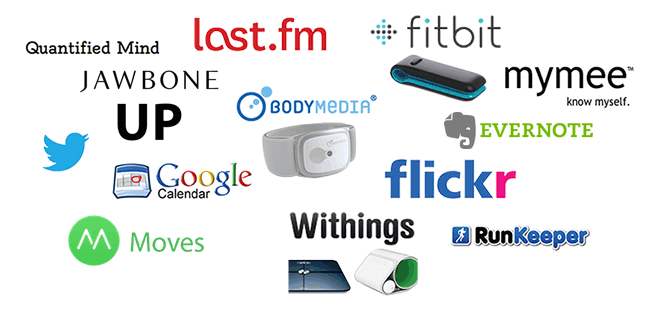
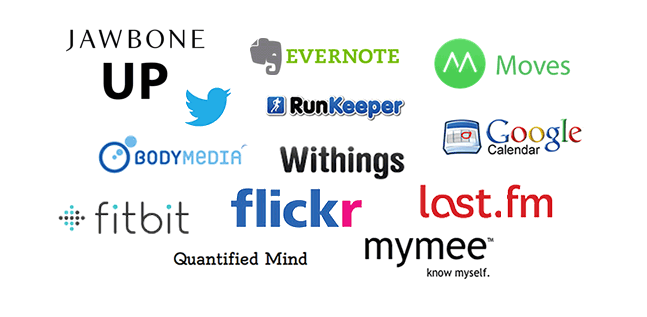
less white space, invert connector drawer on small height screens, new connector cloud image

Changed region(s): [[0.0309, 0.0284, 0.9892, 0.9369], [0.8655, 0.3123, 0.9892, 0.3407]]

diff --git a/fluxtream-web/src/main/webapp/css/index-2014.css b/fluxtream-web/src/main/webapp/css/index-2014.css
@@ -29,8 +29,6 @@ body, html {
   padding-right: 20px;
 }
 
-
-
 .logo {
   background: url("../images/logo.png") no-repeat center center;
   width: 250px;
@@ -45,79 +43,11 @@ body, html {
   text-decoration: underline;
 }
 
-/*
-.username_txt {
-  float: left;
-}
-
-.password_txt {
-  float: left;
-}
-
-.recover_email_txt {
-    float: left;
-}
-
-.recover_email_input {
-    float: left;
-}
-*/
-
-/*
-.username_input {
-  float: left;
-}
-
-.password_input {
-  float: left;
-}
-*/
-
 .forgotPassword {
   font-size: 12px;
   margin-left: 1em;
 /*   float: left; */
 }
-
-/*
-.login_btn {
-  float: left;
-  font-family: Arial, Helvetica, sans-serif;
-  background-color: #ffffff;
-    -webkit-border-top-left-radius: 0px;
-    -moz-border-radius-topleft: 0px;
-    border-top-left-radius: 0px;
-    -webkit-border-top-right-radius: 0px;
-    -moz-border-radius-topright: 0px;
-    border-top-right-radius: 0px;
-    -webkit-border-bottom-right-radius: 0px;
-    -moz-border-radius-bottomright: 0px;
-    border-bottom-right-radius: 0px;
-    -webkit-border-bottom-left-radius: 0px;
-    -moz-border-radius-bottomleft: 0px;
-    border-bottom-left-radius: 0px;
-    border-radius: 2px;
-  border: 1px solid #5995de;
-  display: inline-block;
-  color: white;
-  font-size: 14px;
-  font-weight: bold;
-  font-style: normal;
-  width: 100px;
-  height: 35px;
-  text-decoration: none;
-  text-align: center;
-  cursor: pointer;
-  background-color: #5995de;
-}
-*/
-
-/*
-.login_btn:active {
-  position: relative;
-  top: 1px;
-}
-*/
 
 .intro_video {
  box-shadow: 0px 0px 10px 5px #3072c3;
@@ -133,12 +63,12 @@ body, html {
 
 .register_txt {
 	text-align: left;
-/* 	font-size: 30px; */
 	color: white;
 	font-weight: bold;
 	line-height: 2em;
-	padding-left: 3em;
 }
+
+.register_txt p { text-align: center; }
 
 .register_btn, register_btn:visited, .register_btn:active, .register_btn:focus {
   font-family: Arial, Helvetica, sans-serif;
@@ -334,7 +264,6 @@ footer {
   box-shadow: 0 0 3px #d1d1d5;
 }
 .connector-img-cloud {
-  margin: 0.5em 0 1.5em;
   padding: 0;
   line-height: 1;
   text-align: center;
@@ -348,6 +277,14 @@ footer {
   -moz-transition: height 0.5s ease-in-out;
   -o-transition: height 0.5s ease-in-out;
   transition: height 0.5s ease-in-out;
+}
+
+.connector-img-cloud-lg {
+  margin-top: 0;
+}
+
+.connector-img-cloud-sm {
+  margin: 0.5em 0 1.5em;
 }
 
 .connector-cloud {
@@ -492,10 +429,14 @@ footer {
   }
   .connector-cloud {
     background-image: url(../images/connector-cloud@2x.gif);
+    background-position-y: 5px;
     background-size: 100%;
   }
+  .connector-img-cloud {
+    height: 200px;
+  }
   .connector-img-cloud:hover {
-    height: 197px;
+    height: 200px;
   }
   .register_btn:hover {
     margin-bottom: 1px;
@@ -506,11 +447,6 @@ footer {
 }
 
 @media screen and (min-width: 768px) {
-  .logo-login-container {
-    display: table;
-    padding-top: 2em;
-    padding-bottom: 2em;
-  }
   .logo {
     display: table-cell;
     background-size: 100%;
@@ -527,8 +463,8 @@ footer {
     width: 140px !important;
   }
   .lasagna-layer-1 {
-    padding-top: 2em;
-    padding-bottom: 2em;
+    padding-top: 1em;
+    padding-bottom: 1em;
     padding-left: 0;
     padding-right: 0;
   }
@@ -541,7 +477,7 @@ footer {
     height: 250px;
   }
   
-  .intro_txt p:first-child { margin-bottom: 2em;}
+  .intro_txt p { margin-bottom: 2em; margin-left: 1em;}
   
   label { font-weight: normal; }
   .main-content { padding-top: 2em; }
@@ -587,11 +523,16 @@ footer {
     padding: 2em 0;
   }
   .connector-cloud {
-    background-image: url(../images/connector-cloud@2x.gif);
+    background-image: url(../images/connector-cloud.png);
     background-size: 70%;
   }
   .register_btn:hover {
     margin-top: 0;
+  }
+  .logo-login-container {
+    display: table;
+    padding-top: 1em;
+    padding-bottom: 1em;
   }
 }
 @media screen and (min-width: 992px){
@@ -599,8 +540,8 @@ footer {
     box-shadow: 0 0 20px 5px #043B75;
     border: 2px solid #bacfe7;
     display: block;
-    width: 400px;
-    height: 300px;
+    width: 100%;
+    max-height: 280px;
     margin: 0 0;
   }
   .intro_txt {
@@ -617,21 +558,29 @@ footer {
 }
 @media screen and (min-width: 1260px){
     iframe {
-    width: 500px;
-    height: 350px;
+    width: 100%;
+    max-height: 270px;
   }
   .intro_txt {
-    font-size: 24px;
+    font-size: 22px;
     padding-top: 1em;
   }
   .register_btn {
     font-size: 24px;
     font-weight: 100;
   }
-  .register_txt {
-    padding-left: 1em;
-  }
   .screenshot_txt_1 {
     padding-top: 1em;
   }
+}
+@media screen and (min-width: 1024px) and (max-height: 700px){
+    .logo-login-container {
+    padding-top: 0.5em;
+    padding-bottom: 0.5em;
+  }  
+  .lasagna-layer-1 {
+    padding-top: 0;
+    padding-bottom: 0;
+  }
+
 }

diff --git a/fluxtream-web/src/main/webapp/index-2014.html b/fluxtream-web/src/main/webapp/index-2014.html
@@ -50,15 +50,15 @@
     <div id="introBar" class="lasagna-layer-1">
       <div id="intro" class="container">
         <section class="row">
-          <div class="col-xs-12 col-sm-6 col-md-6 col-lg-6 col-lg-offset-1">
+          <div class="col-xs-12 col-sm-5 col-sm-offset-1 col-md-5 col-lg-4 col-lg-offset-1">
 <!--             <iframe width="432" height="324" src="http://www.youtube.com/embed/D85ICrW52e0?hd=1" frameborder="0" allowfullscreen></iframe> -->
             <iframe src="http://www.youtube.com/embed/D85ICrW52e0?hd=1" frameborder="0" allowfullscreen></iframe>
           </div>
-          <div class="intro_txt col-xs-12 col-sm-6 col-md-6 col-lg-4 col-lg-offset-0">
+          <div class="intro_txt col-xs-12 col-sm-6 col-md-6 col-lg-5 col-lg-offset-0">
             <p>An open-source non-profit personal data visualization framework to help you make sense of your life and compare hypotheses about what affects your well-being</p>
             <div class="row">
               <div class="register_txt col-xs-6 col-md-6 col-lg-6">
-                  It's free!
+                  <p>It's free!</p>
               </div>
               <div class="col-xs-6 col-md-6 col-lg-6">
                 <button style="cursor:pointer" id="registerShow" class="register_btn btn-primary btn btn-lg">Register</button>
@@ -68,7 +68,13 @@
         </section> <!-- /.row -->
       </div> <!-- /.container -->
     </div> <!-- /.lasagna-layer-1 -->
-    
+    <div class="container-fluid hidden-xs hidden-sm">
+      <section class="row connectors">
+        <div class="connector-img-cloud connector-img-cloud-lg col-xs-12 col-sm-12 col-md-12 col-lg-12">
+          <div class="connector-cloud"></div>
+        </div>
+      </section>
+    </div>
     <div class="container">
       <section class="row take-control">
         <div class="col-sm-5 col-sm-offset-1 col-md-4 col-md-offset-2">
@@ -84,9 +90,9 @@
         </div>
       </section>
     </div> 
-    <div class="container-fluid">
+    <div class="container-fluid hidden-lg hidden-md">
       <section class="row connectors">
-        <div class="connector-img-cloud col-xs-12 col-sm-12 col-md-12 col-lg-12">
+        <div class="connector-img-cloud-sm connector-img-cloud col-xs-12 col-sm-12 col-md-12 col-lg-12">
           <div class="connector-cloud"></div>
         </div>
       </section>
